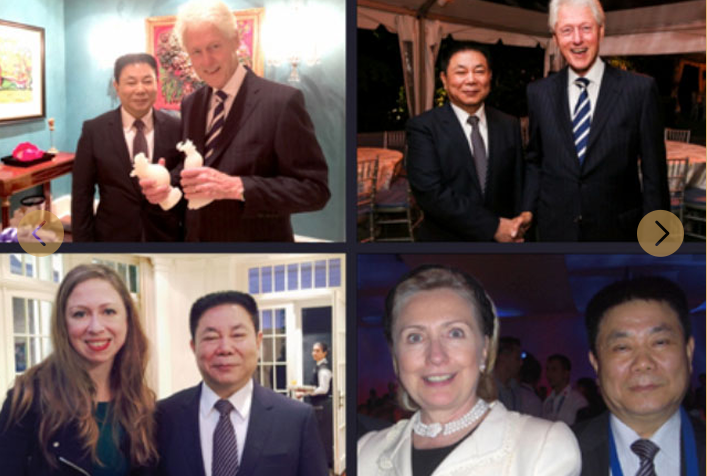
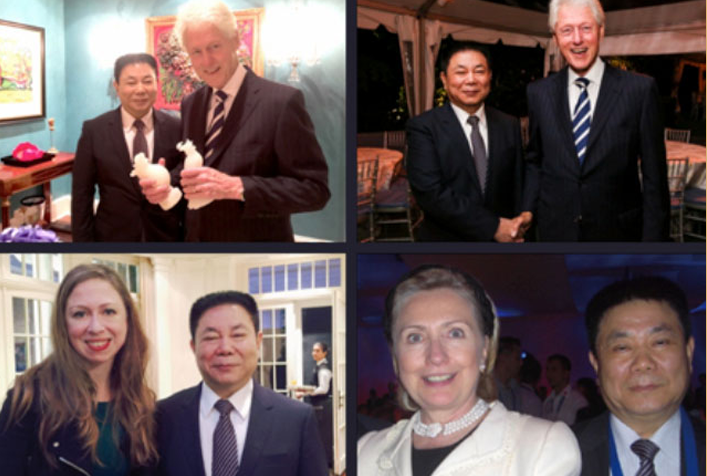
lumina
human-exchange.html

Changed region(s): [[0.0, 0.4412, 0.0934, 0.5588], [0.9024, 0.4412, 0.9646, 0.5588]]

diff --git a/pages/human-exchange.html b/pages/human-exchange.html
@@ -9,6 +9,62 @@
 		<link rel="stylesheet" type="text/css" href="../assets/plugins/swiper/swiper.min.css">
 		<link rel="stylesheet" type="text/css" href="../assets/css/normalize.css"/>
 		<link rel="stylesheet" type="text/css" href="../assets/css/comment.css"/>
+		<style>
+		.content-rwjl {
+			width: 100%;
+			overflow-x:hidden; 
+		}
+		.title-rwjl-width .tit{
+			color:#b28956;
+			font-size: 16px;
+		}
+		#max-pic {
+          position: relative;
+		}
+		#max-pic a.prev, #max-pic a.next {
+			width: 6.6%;
+			position: absolute;
+			top:50%;
+			transform:translateY(-50%);
+		}
+		#max-pic a.prev {
+			left:2.2%;
+		}
+		#max-pic a.next {
+			right:2.2%;
+		}
+		#min-pic {
+			overflow-x:auto;
+			position: relative;
+		}
+
+		#min-pic li{
+			float: left;
+			width:23%;
+			margin-right:1%;
+		}
+		#min-pic a.prev, #min-pic a.next {
+			width: 4.2%;
+			position: absolute;
+			top:50%;
+			transform:translateY(-50%);
+		}
+		#min-pic a.prev {
+			left:2.2%;
+		}
+		#min-pic a.next {
+			right:2.2%;
+		}
+		.rwjl-pic-note {
+		  color:#b28956;
+		  line-height: 18px;
+		}
+		.img-active {
+			border:2px solid #b28956;
+		}
+
+		</style>
+		
 	</head>
 	<body>
 		<!-- header begin -->
@@ -19,86 +75,89 @@
 		<!-- header end -->
 		
 		<!-- container begin -->
-		<div class="container comment">
-			
-			<!-- slide begin -->
-		<!-- 	<div id="slide" class="swiper-container">
-				<div class="swiper-wrapper"></div>
-				<div class="swiper-pagination"></div>
-			</div>
-			<script id="tplSlide" type="text/html">
-				{{each list as value i}}
-				<div class="swiper-slide">
-					<a href="{{value.link}}"><img src="{{value.img}}" alt=""></a>
-				</div>
-				{{/each}}
-			</script> -->
-			<!-- slide end -->
-			
-			<div class="pc-slide">
-	<div class="view">
-		<div class="swiper-container">
-			<a class="arrow-left" href="#"></a>
-			<a class="arrow-right" href="#"></a>
-			<div class="swiper-wrapper">
-				<div class="swiper-slide">
-					<a href="javascript:void(0);"><img src="../assets/imgs/humanistic-feelings/exchange-pic-b1.png" alt=""></a>
-				</div>
-				<div class="swiper-slide">
-					<a href="javascript:void(0);"><img src="../assets/imgs/humanistic-feelings/exchange-pic-b2.png" alt=""></a>
-				</div>
-				<div class="swiper-slide swiper-slide-visible swiper-slide-active">
-					<a href="javascript:void(0);"><img src="../assets/imgs/humanistic-feelings/exchange-pic-b3.png" alt=""></a>
-				</div>
-				<div class="swiper-slide">
-					<a href="javascript:void(0);"><img src="../assets/imgs/humanistic-feelings/exchange-pic-b4.png" alt=""></a>
-				</div>
-			</div>
-		</div>
-	</div>
-	<div class="preview">
-		<a class="arrow-left" href="#"></a>
-		<a class="arrow-right" href="#"></a>
-		<div class="swiper-container">
-			<div class="swiper-wrapper">
-				<div class="swiper-slide">
-					<img src="../assets/imgs/humanistic-feelings/exchange-pic-s1.png" alt="">
-				</div>
-				<div class="swiper-slide swiper-slide-visible swiper-slide-active">
-					<img src="../assets/imgs/humanistic-feelings/exchange-pic-s2.png" alt="">
-				</div>
-				<div class="swiper-slide swiper-slide-visible active-nav">
-					<img src="../assets/imgs/humanistic-feelings/exchange-pic-s3.png" alt="">
-				</div>
-				<div class="swiper-slide swiper-slide-visible">
-					<img src="../assets/imgs/humanistic-feelings/exchange-pic-s4.png" alt="">
-				</div>
-			</div>
-		</div>
-	</div>
-</div>
+		<div class="container comment">	
+
 			<!-- content begin -->
 			<div class="content">
 				
 				<!-- sliding door begin -->
-				<!-- <div class="sliding-door">
-					<p class="banner">
-						<img src="../assets/imgs/join-us/banner_01.jpg"/>
-						<img src="../assets/imgs/join-us/banner_02.jpg" class="hide"/>
-						<img src="../assets/imgs/join-us/banner_03.jpg" class="hide" />
-					</p>
-					<p class="nav clearfix">
-						<a href="javascript:;" class="active fl">Slide01</a>
-						<a href="javascript:;" class="fl">Slide02</a>
-						<a href="javascript:;" class="fl">Slide03</a>
-					</p>
-					<ul class="nav-list">
-						<li>Slide01</li>
-						<li class="hide">Slide02</li>
-						<li class="hide">Slide03</li>
-					</ul>
-				</div> -->
-				<!-- sliding door end -->
+		    <div class="sliding-door">
+				<p class="banner">
+					<img src="../assets/imgs/join-us/banner_01.jpg"/>
+				</p>
+			</div>
+            <div class="content-rwjl">
+                <div class="rewen-banqh">
+	                <div class="title-rwjl-all title-rwjl-width ">
+	                  <h2 class="tit">国际交流</h2>
+	                </div>
+                    <ul id="max-pic">
+                        <li>
+                            <img src="../assets/imgs/humanistic-feelings/exchange-pic-b1.png" alt="">
+                        </li>
+                         <li class="hide">
+                            <img src="../assets/imgs/humanistic-feelings/exchange-pic-b2.png" alt="">
+                        </li>
+                         <li  class="hide">
+                            <img src="../assets/imgs/humanistic-feelings/exchange-pic-b3.png" alt="">
+                        </li>
+                         <li  class="hide">
+                            <img src="../assets/imgs/humanistic-feelings/exchange-pic-b4.png" alt="">
+                        </li>
+                        <a class="prev">
+                        	<img src="../assets/imgs/icons/arrow-prev.png" alt="">
+                        </a>
+                        <a class="next">
+                        	<img src="../assets/imgs/icons/arrow-next.png" alt="">
+                        </a>
+	                </ul>  
+	                <ul id="min-pic" class="clearfix">
+                        <li class="img-active">
+                            <img src="../assets/imgs/humanistic-feelings/exchange-pic-s1.png" alt="">
+                        </li>
+                         <li>
+                            <img src="../assets/imgs/humanistic-feelings/exchange-pic-s2.png" alt="">
+                        </li>
+                         <li>
+                            <img src="../assets/imgs/humanistic-feelings/exchange-pic-s3.png" alt="">
+                        </li>
+                         <li>
+                            <img src="../assets/imgs/humanistic-feelings/exchange-pic-s4.png" alt="">
+                        </li>
+                         <a class="prev">
+                        	<img src="../assets/imgs/icons/arrow-prev.png" alt="">
+                        </a>
+                        <a class="next">
+                        	<img src="../assets/imgs/icons/arrow-next.png" alt="">
+                        </a>
+	                </ul>
+	                <ul id="text">
+                        <li>
+                            <p class="rwjl-pic-note"> 
+	                                  高迪安集团的“人文”，共鸣于掌声响起的国际人文交流。在联合国总部，在联合国教科文组织，在B20峰会，在亚欧国际教育论坛，在许多世界级人物汇聚的场合，高迪安总是以自己的方式，向众人传递和分享着属于全社会的人文之光。
+	                        </p>
+                        </li>
+                         <li class="hide">
+                               <p class="rwjl-pic-note"> 
+	                                   高迪安董事长顾文元先生受邀出席德国总统花园庆典，在庆典上将海马龙、海马凤赠予德国联邦总统阿希姆•高克先生，高克总统盛赞“这是我见过的最美的礼物”。
+	                           </p>
+	                              
+                        </li>
+                         <li class="hide">
+                               <p class="rwjl-pic-note"> 
+	                                  高迪安集团的“人文”，共鸣于掌声响起的国际人文交流。在联合国总部，在联合国教科文组织，在B20峰会，在亚欧国际教育论坛，在许多世界级人物汇聚的场合，高迪安总是以自己的方式，向众人传
+	                            </p>
+	                               
+                        </li>
+                         <li class="hide">
+                           
+	                                <p class="rwjl-pic-note">高迪安集团董事长顾文元先生在联合国总部获颁“世界和平贡献奖”，顾先生与联合国助理秘书长托马斯·盖斯握手
+	                                </p>  
+                        </li>
+	                </ul>               
+                </div>
+            </div>
+		<!-- sliding door end -->
 				
 			</div>
 			<!-- content end -->
@@ -134,6 +193,62 @@
 		<script src="../assets/plugins/artTemplate/dist/template.js"></script>
 		<script src="../assets/plugins/swiper/swiper.min.js"></script>
 		<script src="../assets/js/comment.js"></script>
+        <script>
+	       var $oContentRwjl = $(".content-rwjl"),
+	           $oMaxPic =$oContentRwjl.find("#max-pic"),
+	           $aMaxPicItem = $oMaxPic.find("li"),
+	           $aMaxPicBtn = $oMaxPic.find("a"),
+	           $oMinPic =$oContentRwjl.find("#min-pic"),
+	           $aMinPicItem = $oMinPic.find("li"),
+	           $aMinPicBtn = $oMinPic.find("a"),
+	           $oText =$oContentRwjl.find("#text"),
+	           $aTextItem = $oText.find("li"),
+	           _index = 0;
+	           $.change = {
+	           	changeIndex:function(_obj,_index){
+                    var _len = $aMaxPicItem.length;
+                    // alert(_obj);
+                    if(_obj != null){
+		           		 if($(_obj).hasClass("prev")){
+	                  
+	                  	if(_index ==0) {
+			            	_index=3;
+			            }
+	                  	else{
+			              	_index--;
+			            }
+	                  }else{
+	                   if (_len-1>_index &&_index>0){
+			              	_index++;
+			            } else if(_index ==0) {
+			            	_index++;
+			            } else {
+			            	_index = 0;
+			            }
+	                  }
+                    } 
+	           		$aMinPicItem.removeClass('img-active').eq(_index).addClass('img-active');
+	            	$aMaxPicItem.addClass('hide').eq(_index).removeClass('hide');
+	            	$aTextItem.addClass('hide').eq(_index).removeClass('hide');
+	           	}
+	           }
+                
+
+	           $aMinPicItem.on("click",function(){
+	            _index = $(this).index();
+	           		$.change.changeIndex(null,_index);
+	            })
+                 
+	            $aMaxPicBtn.on("click",function(){
+	             _index=$oMaxPic.find("li:not('.hide')").index();
+                 $.change.changeIndex($(this),_index);
+	            })
+
+	             $aMinPicBtn.on("click",function(){
+	             _index=$oMinPic.find(".img-active").index();
+                  $.change.changeIndex($(this),_index);
+	            })
+        </script>
 		<!-- javascript end -->
 	</body>
 </html>
